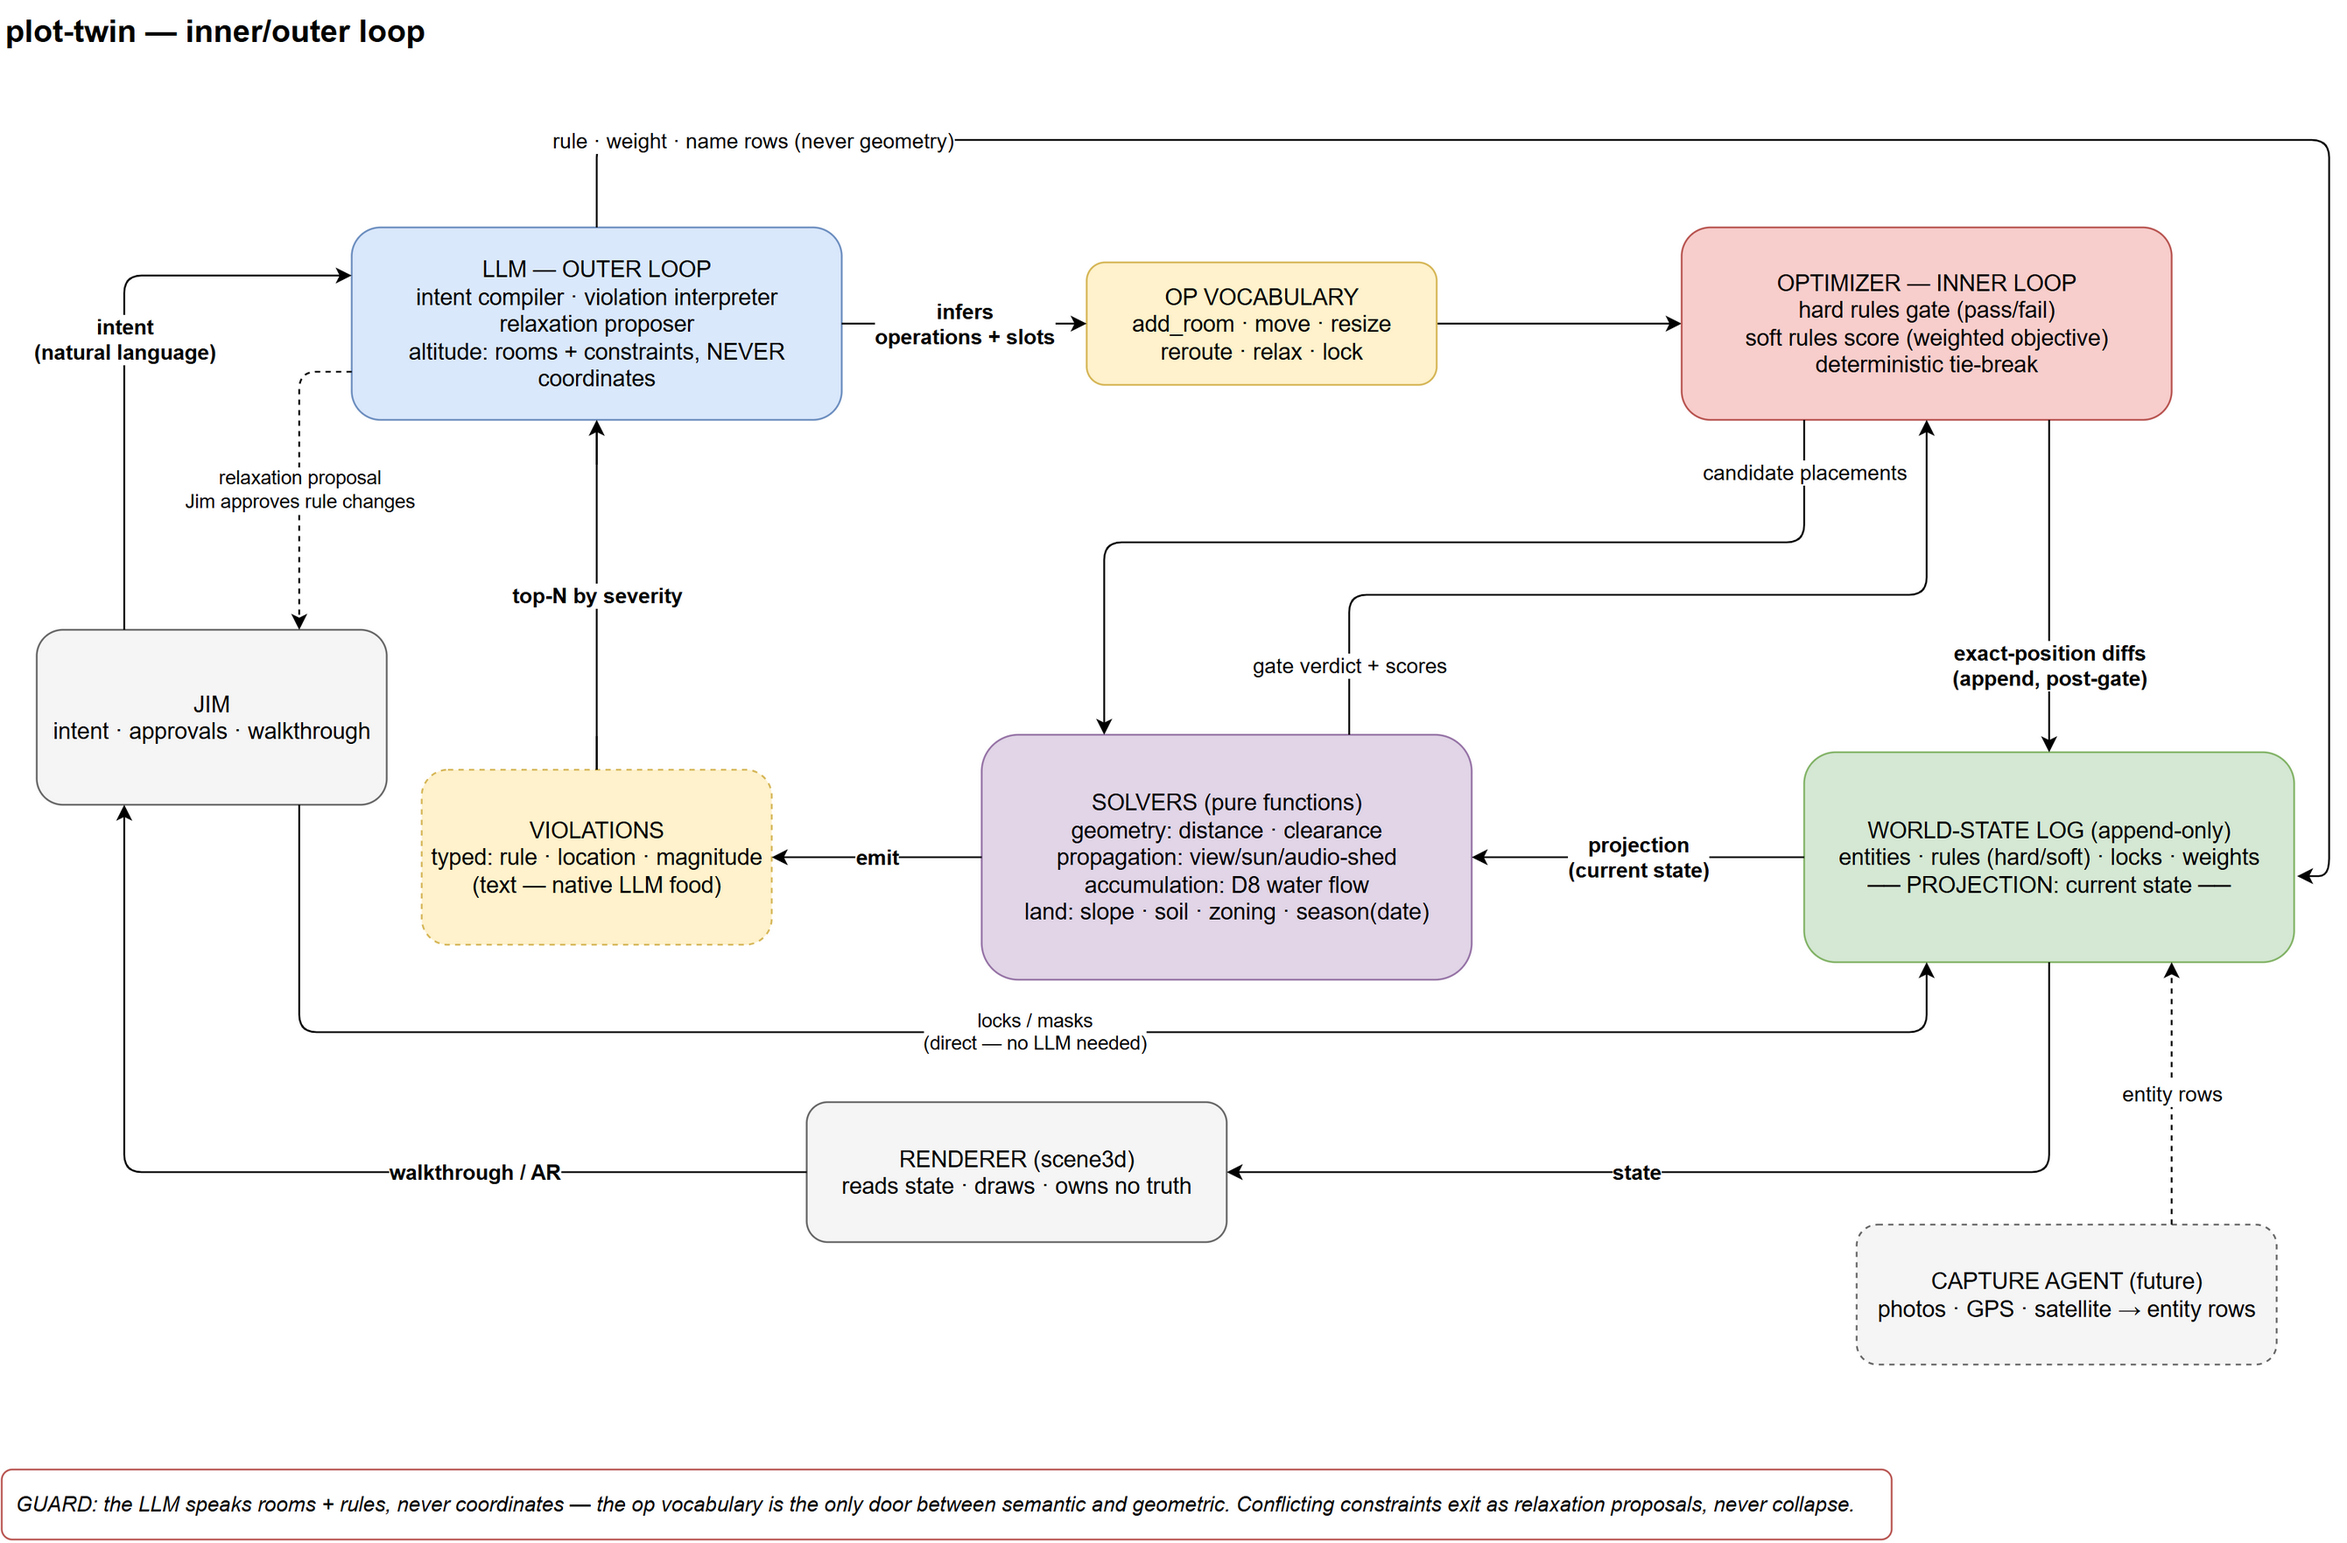
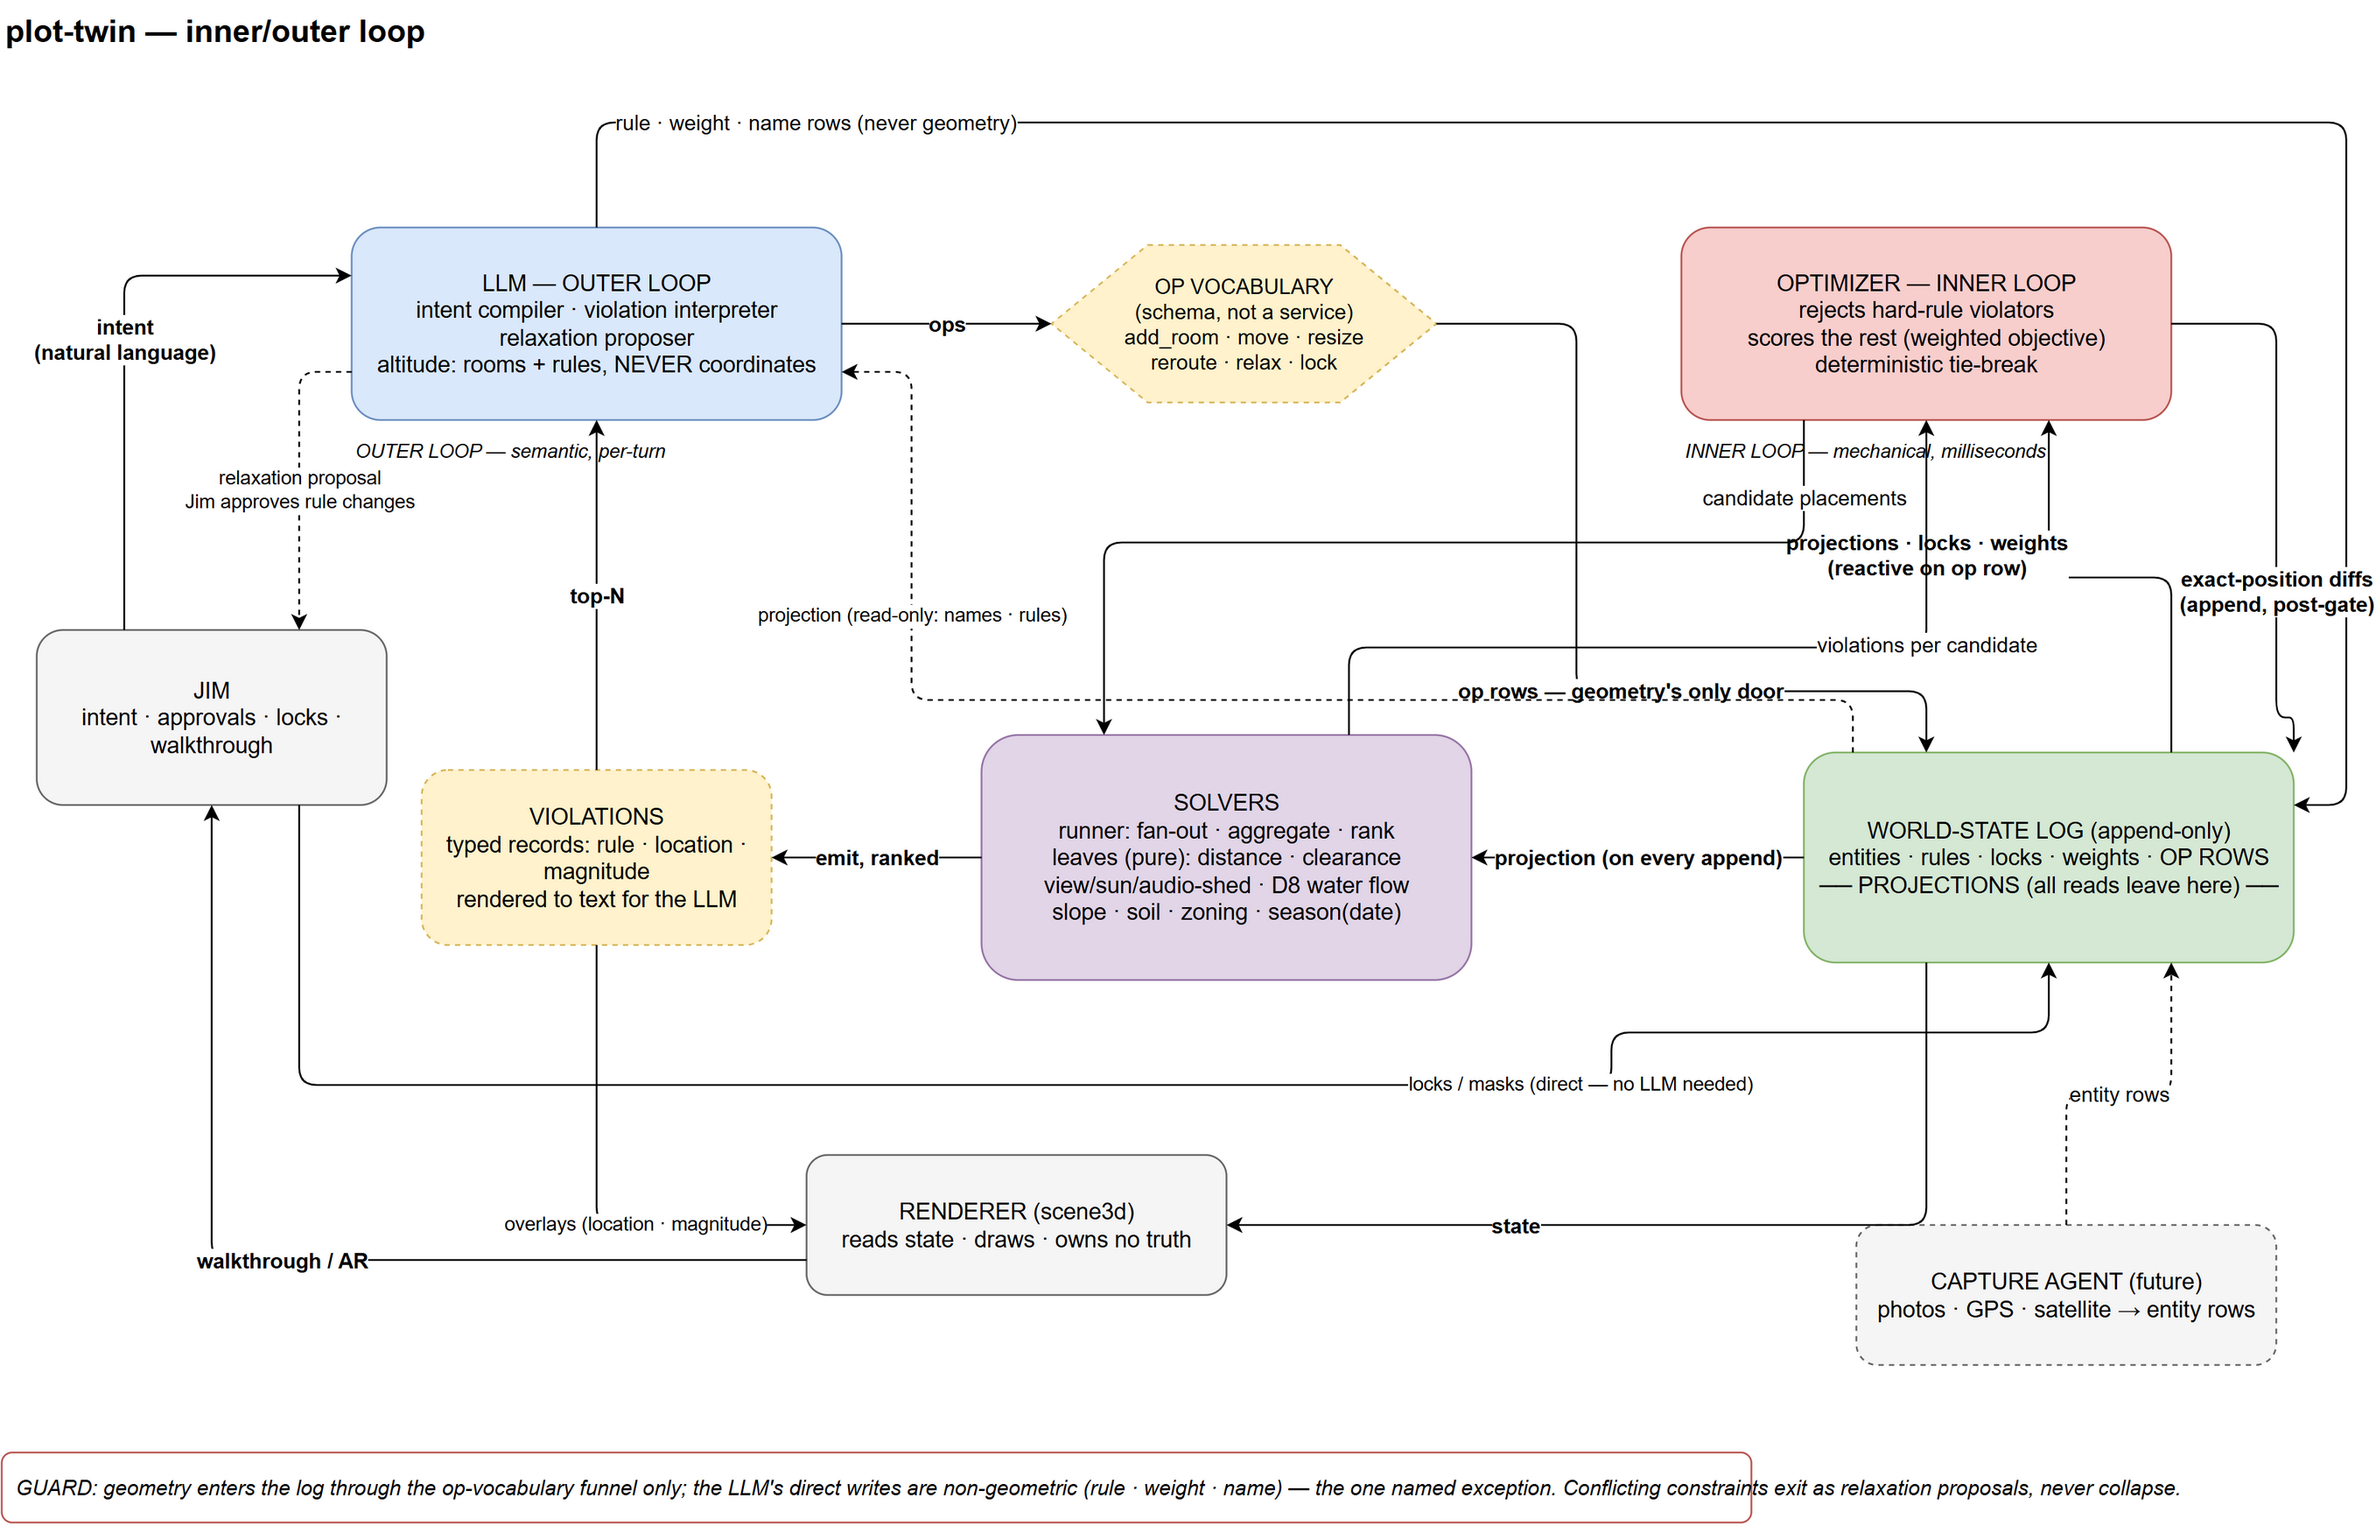
docs: zero-based-review redraw (ops-as-rows, one gate owner, read edges, overlays) + vision + roadmap

diff --git a/CLAUDE.md b/CLAUDE.md
@@ -27,8 +27,43 @@ verify 3D spaces through tight symbolic edit cycles.
 Loop first, capture later: toy state + 2 solvers (clearance, D8 flow) + walkable render proves the
 cycle before photos→state ingestion exists.
 
+## Vision
+
+One living model of the land, held for a decade. Jim speaks intent; the LLM compiles it to
+typed rules and ops; solvers verify; an optimizer places; the log remembers every change and
+why. Jim walks the result — on screen now, through his phone on the actual ground later — and
+what he sees is always derived from state that machines can check. The twin is where the
+10-year build gets designed, argued with, and kept honest: every structure placed before it's
+bought, every constraint (drainage, sun, access, permit) enforced before a shovel moves.
+Success = the plot's next decade of decisions each ran through the loop first.
+
+## Roadmap
+
+1. World-state schema + append-only log (entity · rule · lock · weight · op rows)
+2. Toy parcel + solver kit v1 (runner, clearance, D8 flow) — the loop, proven
+3. Op pipeline: intent → op rows → optimizer v0 → gated appends
+4. Top-down 2D projection view (cheap first truth-view, violations overlaid)
+5. scene3d GPU rebuild (pt-research design) → first-person walkthrough
+6. Real terrain + real rooms (DEM/survey ingest, the actual parcel)
+7. Optimizer v1: LLM-proposed neighborhoods, solver-scored search
+8. Capture agent: photos/GPS/satellite → entity rows
+9. AR on-site walkthrough; cinematic skin last
+
 ## Rules
 
 - Decisions live in DECISIONS.md, one line each, dated.
 - Docs are extremely concise. Future features are one line in docs/future.md.
 - Standards: `~/.claude/references/coding-standards.md`.
+
+## Pending: adopt rationale governance (Jim-approved direction, 2026-08-05)
+
+Read `~/.claude/skills/rationale/SKILL.md` and run its ADOPT mode on this repo: inventory
+every doc, present the full migration table to Jim BEFORE moving anything, migrate on a
+branch, lint clean, `.rationale` marker goes on LAST. Notes for the migration: DECISIONS.md
+upgrades from one-line entries to the skill's entry standard (option tables, rejected
+options keep kill reasons — the locked architecture bullets above are decisions to
+retrofit); docs/future.md content likely becomes TASKS.md Later; the "docs are extremely
+concise" rule survives — the taxonomy enforces it. Sister repo: workspace/common-ground
+(first adopter, reference migration in its git history). Data relationship: common-ground
+ingests/selects land data anywhere-wide; this repo's land/regulatory solver family PULLS
+constraint layers from it — do not build duplicate collectors here.

diff --git a/DECISIONS.md b/DECISIONS.md
@@ -13,3 +13,9 @@
 - 2026-08-05 — Solvers take a date; sun/shade/deciduous are seasonal functions.
 - 2026-08-05 — Landmarks Jim references ("the big tree") become named entity rows; anything referenced twice earns a name.
 - 2026-08-05 — Architecture diagram: docs/architecture.drawio (inner/outer loop, op-vocabulary waist, relaxation edge).
+- 2026-08-05 — Ops are LOG ROWS, not calls (zero-based review): every LLM op appends through the waist; provenance ("why is the greenhouse here" = timestamped op row + intent), and appends reactively trigger the optimizer. No orchestrator node — the event loop is substrate.
+- 2026-08-05 — Gate has one owner: solvers measure (violations per candidate), optimizer gates on their results and scores the rest.
+- 2026-08-05 — SOLVERS = runner (fan-out, aggregate, rank) + pure leaf solvers. Ranking is the runner's.
+- 2026-08-05 — Projections are plural (current-state, render view, seasonal, plan overlays); all reads leave projections, only appends touch the log.
+- 2026-08-05 — Renderer draws violation overlays (location + magnitude); LLM reads projection read-only to resolve names. Neither breaks LLM-never-geometry.
+- 2026-08-05 — Tap-to-lock vs intent-only is UX policy, not architecture: every writer terminates as the same typed row.
